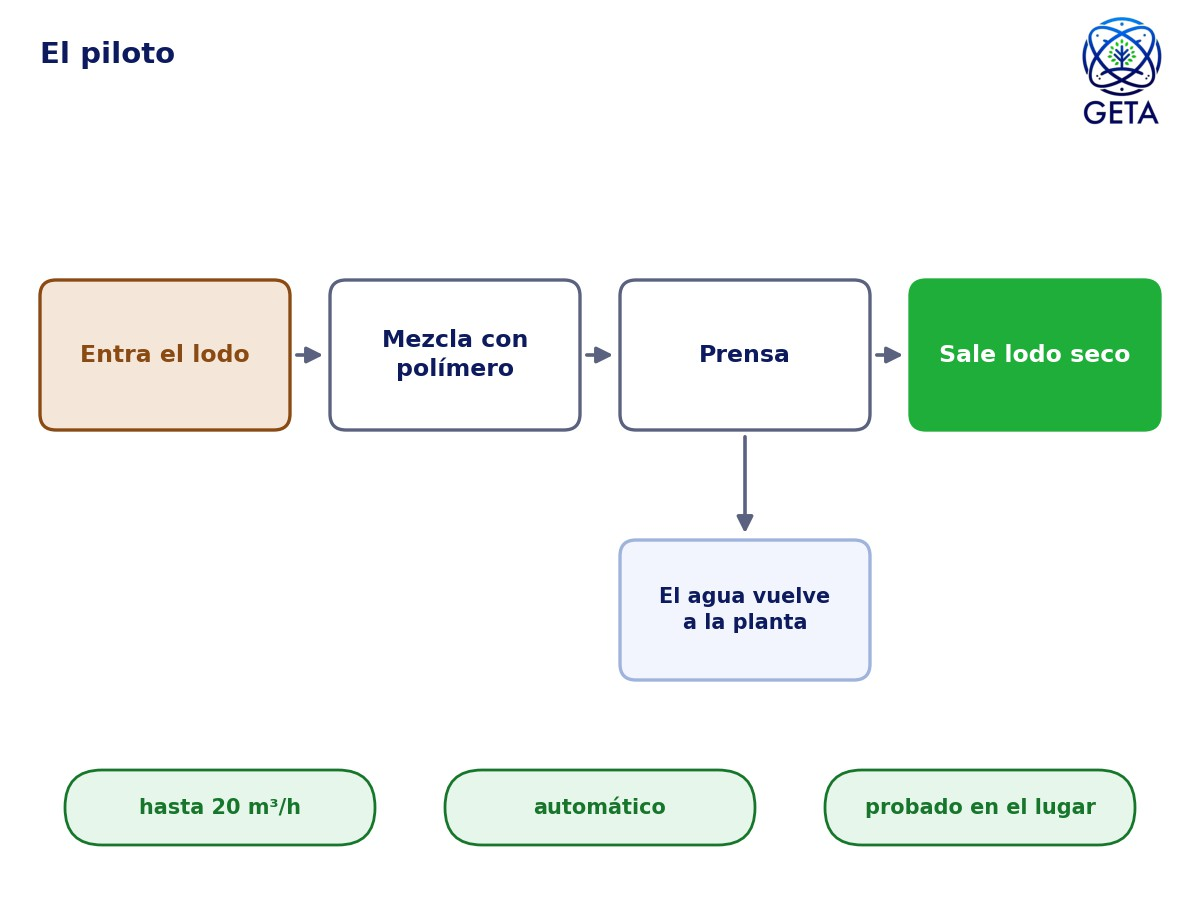
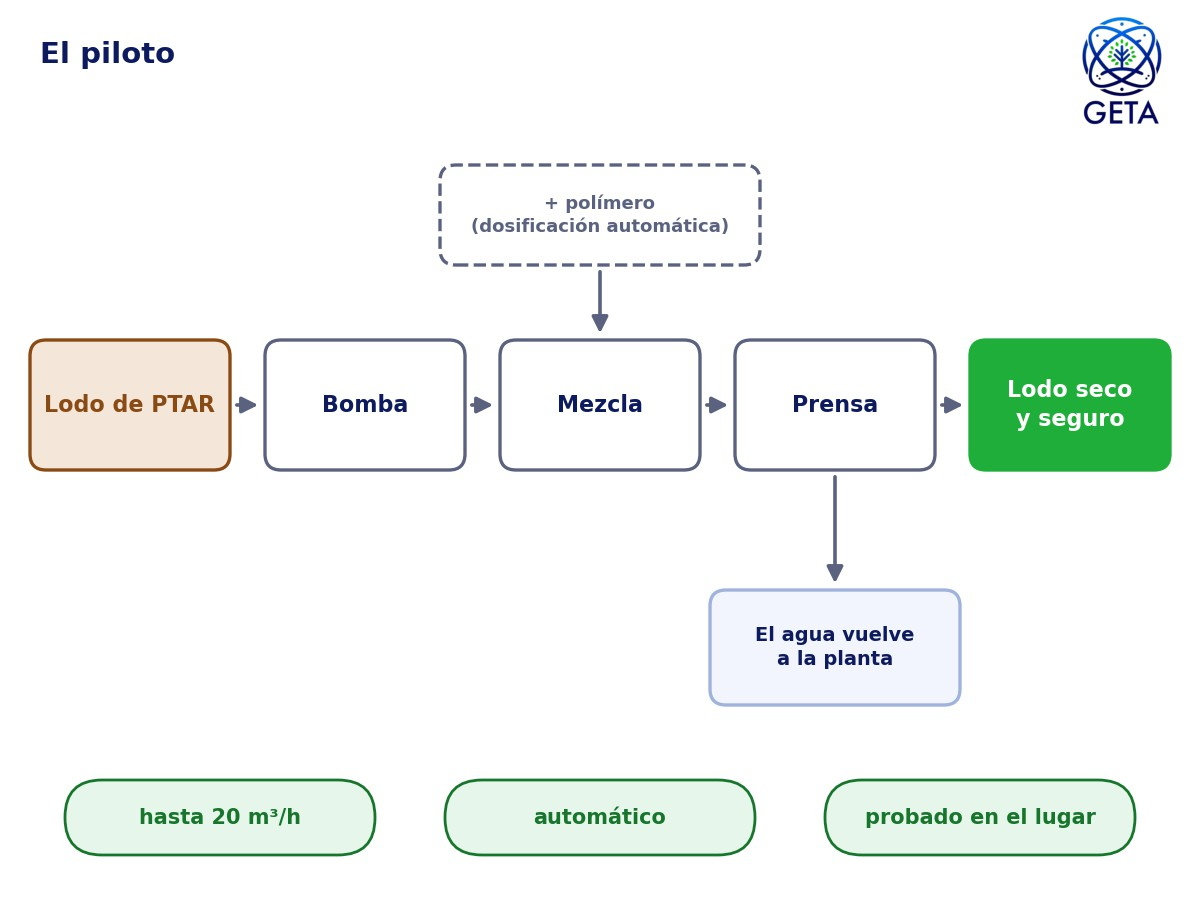
Inertização: diagrama 1 com floco antes/depois, etapas centralizadas e piloto como diagrama de blocos

diff --git a/tecnologia-inertizacao.html b/tecnologia-inertizacao.html
@@ -114,10 +114,10 @@
       <div class="tp-mapas-grid">
         <div>
           <div class="tp-mapas-fig">
-          <img src="img/tecnologias/inertizacao/lodo-mecanismo.jpg?v=20261127q" alt="Diagrama: o lodo úmido com metais recebe os polímeros GETA, que prendem os metais e soltam a água; o resultado é um lodo mais seco e seguro" class="on">
-          <img src="img/tecnologias/inertizacao/lodo-processo.jpg?v=20261127q" alt="Diagrama do processo em 4 etapas: misturar, adensar, desaguar e destinar" loading="lazy">
-          <img src="img/tecnologias/inertizacao/lodo-comparacao.jpg?v=20261127q" alt="Antes e depois: o lodo comum tem muita água, pode soltar metais e só vai ao aterro; o lodo GETA é mais seco, não solta poluentes e abre novos usos" loading="lazy">
-          <img src="img/tecnologias/inertizacao/lodo-piloto.jpg?v=20261127q" alt="Diagrama do piloto: o lodo entra, é misturado com polímero, passa pela prensa e sai seco; a água volta para a estação" loading="lazy">
+          <img src="img/tecnologias/inertizacao/lodo-mecanismo.jpg?v=20261127s" alt="Diagrama: o lodo úmido com metais recebe os polímeros GETA, que prendem os metais e soltam a água; o resultado é um lodo mais seco e seguro" class="on">
+          <img src="img/tecnologias/inertizacao/lodo-processo.jpg?v=20261127s" alt="Diagrama do processo em 4 etapas: misturar, adensar, desaguar e destinar" loading="lazy">
+          <img src="img/tecnologias/inertizacao/lodo-comparacao.jpg?v=20261127s" alt="Antes e depois: o lodo comum tem muita água, pode soltar metais e só vai ao aterro; o lodo GETA é mais seco, não solta poluentes e abre novos usos" loading="lazy">
+          <img src="img/tecnologias/inertizacao/lodo-piloto.jpg?v=20261127s" alt="Diagrama do piloto: o lodo entra, é misturado com polímero, passa pela prensa e sai seco; a água volta para a estação" loading="lazy">
           </div>
           <div class="tp-mapas-nav">
             <button type="button" class="tp-prev" aria-label="Anterior">‹</button>

diff --git a/tools/diagramas_lodo.py b/tools/diagramas_lodo.py
@@ -37,6 +37,15 @@ TR = {
  "Prendem os metais": ("Lock in the metals", "Atrapan los metales"),
  "Soltam a água": ("Release the water", "Sueltan el agua"),
  "Lodo mais seco\ne seguro": ("Drier, safer\nsludge", "Lodo más seco\ny seguro"),
+ "Mistura": ("Mixing", "Mezcla"),
+ "+ polímeros": ("+ polymers", "+ polímeros"),
+ "Antes: floco solto,\ncheio de água": ("Before: loose floc,\nfull of water", "Antes: flóculo suelto,\nlleno de agua"),
+ "Depois: floco firme,\nmetais presos e água fora": ("After: firm floc,\nmetals locked in, water out", "Después: flóculo firme,\nmetales atrapados y agua fuera"),
+ "Lodo de ETE": ("WWTP sludge", "Lodo de PTAR"),
+ "Bomba": ("Pump", "Bomba"),
+ "Prensa": ("Press", "Prensa"),
+ "Lodo seco\ne seguro": ("Dry, safe\nsludge", "Lodo seco\ny seguro"),
+ "+ polímero\n(dosagem automática)": ("+ polymer\n(automatic dosing)", "+ polímero\n(dosificación automática)"),
  # 2
  "O processo em 4 etapas": ("The process in 4 steps", "El proceso en 4 etapas"),
  "Misturar": ("Mix", "Mezclar"),
@@ -116,28 +125,74 @@ def save(fig, name):
 
 # ── 1 · Como funciona ────────────────────────────────────────────────────
 fig, ax = canvas("Como funciona")
-box(ax, 3.6, 6.2, 4.8, 1.4, "Lodo úmido\ncom metais", "conc", fs=19)
-box(ax, 0.5, 6.45, 2.5, 0.9, "+ polímeros GETA", "add", fs=14)
-arrow(ax, 3.04, 6.9, 3.56, 6.9)
-arrow(ax, 6.0, 6.15, 3.2, 4.85); arrow(ax, 6.0, 6.15, 8.8, 4.85)
-box(ax, 0.9, 3.6, 4.6, 1.2, "Prendem os metais", "prod", fs=18)
-box(ax, 6.5, 3.6, 4.6, 1.2, "Soltam a água", "prod", fs=18)
-arrow(ax, 3.2, 3.55, 6.0, 2.3); arrow(ax, 8.8, 3.55, 6.0, 2.3)
-box(ax, 3.6, 0.85, 4.8, 1.4, "Lodo mais seco\ne seguro", "out", fs=19)
+# Fluxo: lodo → mistura (+ polímeros) → lodo seco
+RY, RH, RW = 5.1, 1.4, 3.2
+box(ax, 0.4, RY, RW, RH, "Lodo úmido\ncom metais", "conc", fs=18)
+box(ax, 4.4, RY, RW, RH, "Mistura", "proc", fs=19)
+box(ax, 8.4, RY, RW, RH, "Lodo mais seco\ne seguro", "out", fs=18)
+arrow(ax, 3.64, RY + RH / 2, 4.36, RY + RH / 2)
+arrow(ax, 7.64, RY + RH / 2, 8.36, RY + RH / 2)
+box(ax, 4.65, 7.0, 2.7, 0.75, "+ polímeros GETA", "add", fs=14)
+arrow(ax, 6.0, 6.96, 6.0, RY + RH + 0.04)
+# Ilustração: o floco antes e depois
+rng = np.random.default_rng(7)
+def floco(cx, cy, solto):
+    R = 1.25 if solto else 0.8
+    n = 16 if solto else 22
+    for _i in range(n):
+        ang, rr = rng.uniform(0, 2 * np.pi), R * np.sqrt(rng.uniform(0, 1))
+        r = rng.uniform(0.2, 0.32) if solto else rng.uniform(0.2, 0.3)
+        ax.add_patch(Circle((cx + rr * np.cos(ang), cy + rr * np.sin(ang)), r, fc="#8a5a2b", ec="#6d4520", lw=1, alpha=0.92, zorder=2))
+    # metais (cinza)
+    for _i in range(9):
+        if solto:
+            ang, rr = rng.uniform(0, 2 * np.pi), (R + 0.25) * np.sqrt(rng.uniform(0.2, 1))
+        else:  # presos e bem distribuídos dentro do floco
+            ang, rr = _i * 2 * np.pi / 9 + 0.35, (0.28 if _i % 2 else 0.58)
+        ax.add_patch(Circle((cx + rr * np.cos(ang), cy + rr * np.sin(ang)), 0.1, fc="#9aa3b5", ec="#4b5165", lw=1.2, zorder=4))
+    if solto:  # água presa no meio do floco
+        for _i in range(16):
+            ang, rr = rng.uniform(0, 2 * np.pi), R * 1.05 * np.sqrt(rng.uniform(0, 1))
+            ax.add_patch(Circle((cx + rr * np.cos(ang), cy + rr * np.sin(ang)), rng.uniform(0.08, 0.13), fc="#5bb8f0", ec="white", lw=1, zorder=3))
+    else:      # polímeros envolvendo e água saindo
+        th = np.linspace(0, 2 * np.pi, 200)
+        for k, (col, a, b, rot) in enumerate([(GREEN, 1.15, 0.95, 0.3), ("#2f7fd6", 1.05, 1.15, 1.2), (GREEN, 1.2, 1.0, 2.2), ("#2f7fd6", 0.95, 1.2, 2.9)]):
+            x = a * np.cos(th); y = b * np.sin(th)
+            ax.plot(cx + x * np.cos(rot) - y * np.sin(rot), cy + x * np.sin(rot) + y * np.cos(rot), color=col, lw=3, alpha=0.85, zorder=5)
+        for k in range(10):
+            ang = k * 2 * np.pi / 10 + 0.2; r1 = 1.5
+            px, py = cx + r1 * np.cos(ang), cy + r1 * np.sin(ang)
+            ax.add_patch(Circle((px, py), 0.11, fc="#5bb8f0", ec="white", lw=1, zorder=3))
+            ax.annotate("", xy=(cx + 1.85 * np.cos(ang), cy + 1.85 * np.sin(ang)), xytext=(cx + 1.66 * np.cos(ang), cy + 1.66 * np.sin(ang)),
+                        arrowprops=dict(arrowstyle="-|>", color="#5bb8f0", lw=1.6, mutation_scale=11))
+floco(3.0, 2.55, True)
+floco(9.0, 2.55, False)
+arrow(ax, 4.75, 2.55, 6.85, 2.55, lw=3, ms=28)
+ax.text(5.8, 2.95, _("+ polímeros"), ha="center", va="bottom", fontsize=14, color=MUTED, fontweight="bold")
+ax.text(3.0, 0.45, _("Antes: floco solto,\ncheio de água"), ha="center", va="center", fontsize=15, color=BROWN, fontweight="bold", linespacing=1.3)
+ax.text(9.0, 0.45, _("Depois: floco firme,\nmetais presos e água fora"), ha="center", va="center", fontsize=15, color=DKG, fontweight="bold", linespacing=1.3)
 save(fig, "lodo-mecanismo.jpg")
 
 # ── 2 · Processo em 4 etapas ─────────────────────────────────────────────
 fig, ax = canvas("O processo em 4 etapas")
 steps = [("Misturar", "o lodo recebe\nos polímeros"), ("Adensar", "os flocos ficam\nmais firmes"),
          ("Desaguar", "a água sai\nmais rápido"), ("Destinar", "um sólido seguro\ne com menos volume")]
-ys = [6.55, 4.95, 3.35, 1.75]
+# Mede o texto mais largo para centralizar o conjunto (caixa + descrição) na imagem
+rend = fig.canvas.get_renderer()
+def largura(s, fs):
+    tt = ax.text(0, 0, s, fontsize=fs, linespacing=1.35); wpx = tt.get_window_extent(renderer=rend).width; tt.remove()
+    return wpx / 100.0
+BW, GAP = 3.6, 0.6
+tw = max(largura(_(d), 17) for _t, d in steps)
+x0 = (12 - (BW + GAP + tw)) / 2 + 0.2   # +0.2 compensa o círculo do número à esquerda
+ys = [6.45, 4.9, 3.35, 1.8]
 for i, ((t, d), y) in enumerate(zip(steps, ys)):
     last = i == len(steps) - 1
-    box(ax, 1.6, y, 3.6, 1.15, t, "out" if last else "proc", fs=20)
-    num(ax, 1.6, y + 0.575, i + 1, color=GREEN if not last else DKG)
-    ax.text(5.8, y + 0.575, _(d), ha="left", va="center", fontsize=17, color=NAVY, linespacing=1.35)
+    box(ax, x0, y, BW, 1.15, t, "out" if last else "proc", fs=20)
+    num(ax, x0, y + 0.575, i + 1, color=GREEN if not last else DKG)
+    ax.text(x0 + BW + GAP, y + 0.575, _(d), ha="left", va="center", fontsize=17, color=NAVY, linespacing=1.35)
     if not last:
-        arrow(ax, 3.4, y - 0.04, 3.4, ys[i + 1] + 1.19)
+        arrow(ax, x0 + BW / 2, y - 0.04, x0 + BW / 2, ys[i + 1] + 1.19)
 note(ax, 0.75, "Usa os equipamentos que a estação já tem")
 save(fig, "lodo-processo.jpg")
 
@@ -158,18 +213,26 @@ save(fig, "lodo-comparacao.jpg")
 
 # ── 4 · Piloto ───────────────────────────────────────────────────────────
 fig, ax = canvas("O piloto")
-seq = [("Lodo entra", "conc"), ("Mistura com\npolímero", "proc"), ("Prensa", "proc"), ("Sai lodo seco", "out")]
-xs = [0.4, 3.3, 6.2, 9.1]; w = 2.5; y = 4.7
+# Diagrama de blocos: entrada → processos → saída, com o polímero entrando na mistura
+seq = [("Lodo de ETE", "conc"), ("Bomba", "proc"), ("Mistura", "proc"), ("Prensa", "proc"), ("Lodo seco\ne seguro", "out")]
+w, gap, y, hh = 2.0, 0.35, 4.3, 1.3
+xs = [0.3 + i * (w + gap) for i in range(len(seq))]
 for i, ((t, k), x) in enumerate(zip(seq, xs)):
-    box(ax, x, y, w, 1.5, t, k, fs=17)
-    if i: arrow(ax, xs[i - 1] + w + 0.04, y + 0.75, x - 0.04, y + 0.75)
-box(ax, 6.2, 2.2, 2.5, 1.4, "A água volta\npara a estação", "mid", fs=15)
-arrow(ax, 7.45, y - 0.04, 7.45, 3.64)
+    box(ax, x, y, w, hh, t, k, fs=16)
+    if i: arrow(ax, xs[i - 1] + w + 0.04, y + hh / 2, x - 0.04, y + hh / 2)
+# entrada do polímero (tracejado) na mistura
+mx = xs[2] + w / 2
+box(ax, mx - 1.6, 6.35, 3.2, 1.0, "+ polímero\n(dosagem automática)", "add", fs=13)
+arrow(ax, mx, 6.31, mx, y + hh + 0.04)
+# saída de água da prensa
+px = xs[3] + w / 2
+box(ax, xs[3] - 0.25, 1.95, w + 0.5, 1.15, "A água volta\npara a estação", "mid", fs=14)
+arrow(ax, px, y - 0.04, px, 3.14)
 for i, t in enumerate(["até 20 m³/h", "automático", "testado no local"]):
     cx = 2.2 + i * 3.8
-    ax.add_patch(FancyBboxPatch((cx - 1.55, 0.55), 3.1, 0.75, boxstyle="round,pad=0,rounding_size=0.37",
+    ax.add_patch(FancyBboxPatch((cx - 1.55, 0.45), 3.1, 0.75, boxstyle="round,pad=0,rounding_size=0.37",
                                 fc="#e6f6ea", ec=DKG, lw=2))
-    ax.text(cx, 0.925, _(t), ha="center", va="center", fontsize=15, color=DKG, fontweight="bold")
+    ax.text(cx, 0.825, _(t), ha="center", va="center", fontsize=15, color=DKG, fontweight="bold")
 save(fig, "lodo-piloto.jpg")
 
 if FALTA: print("SEM TRADUÇÃO:", FALTA)
